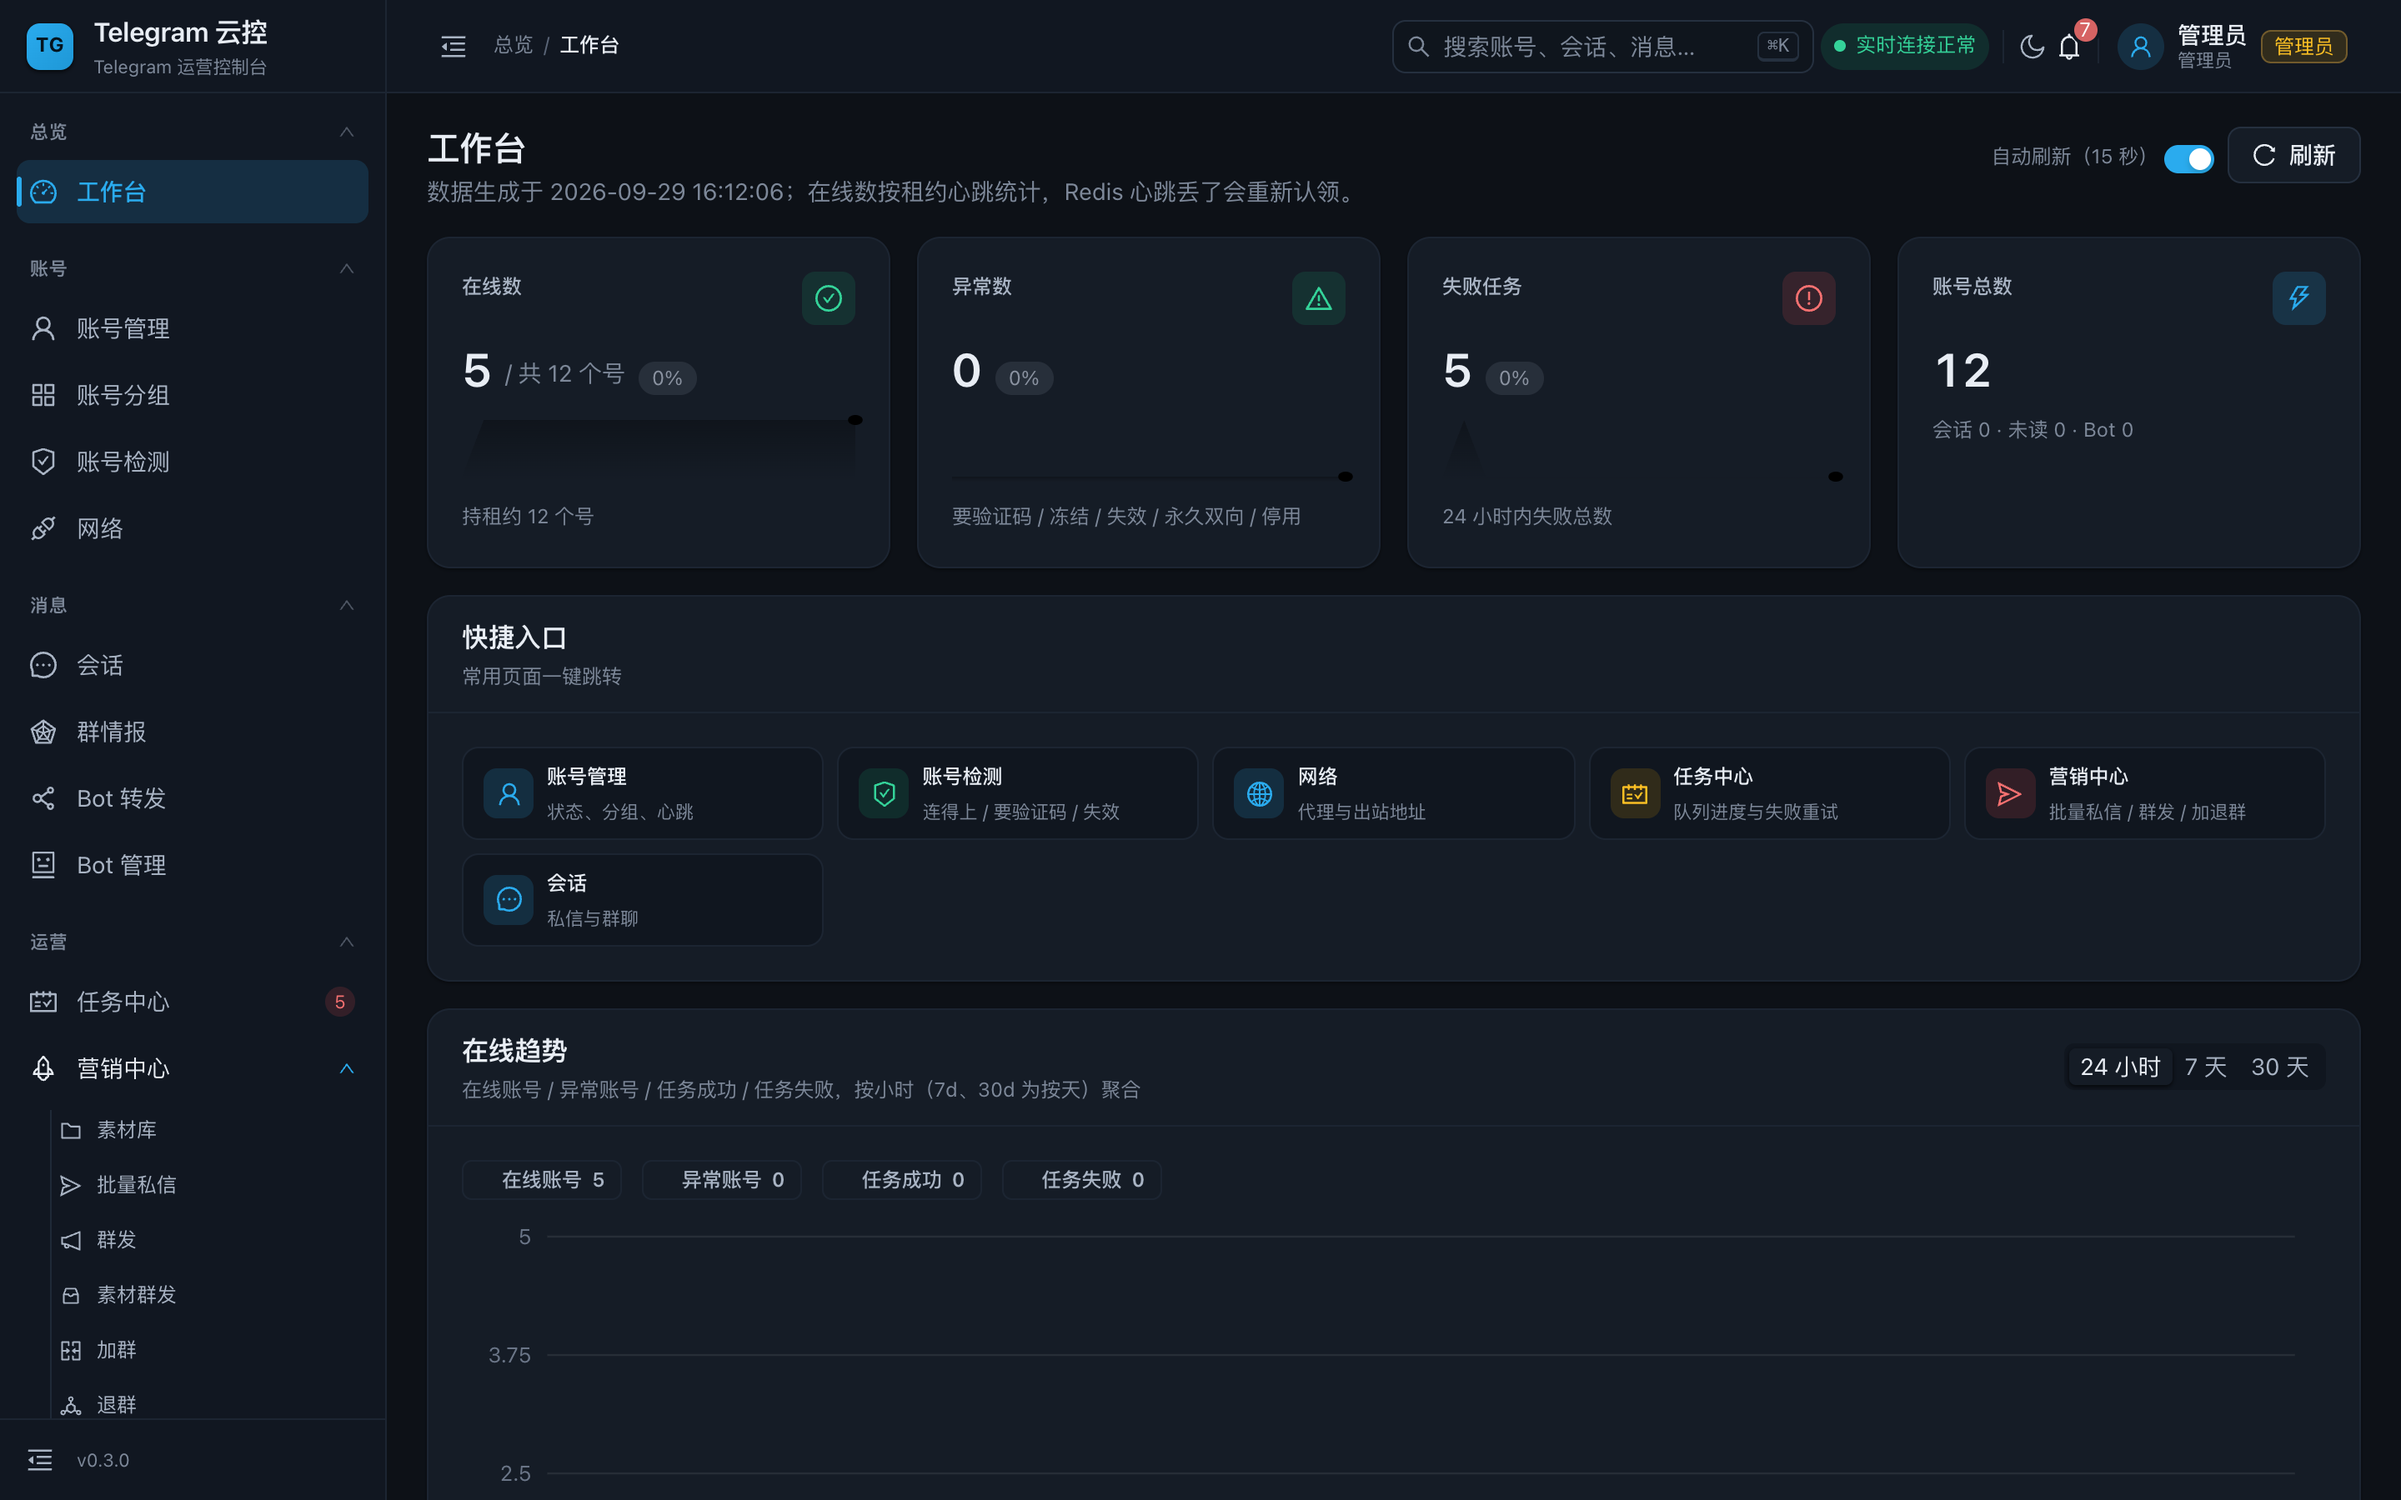
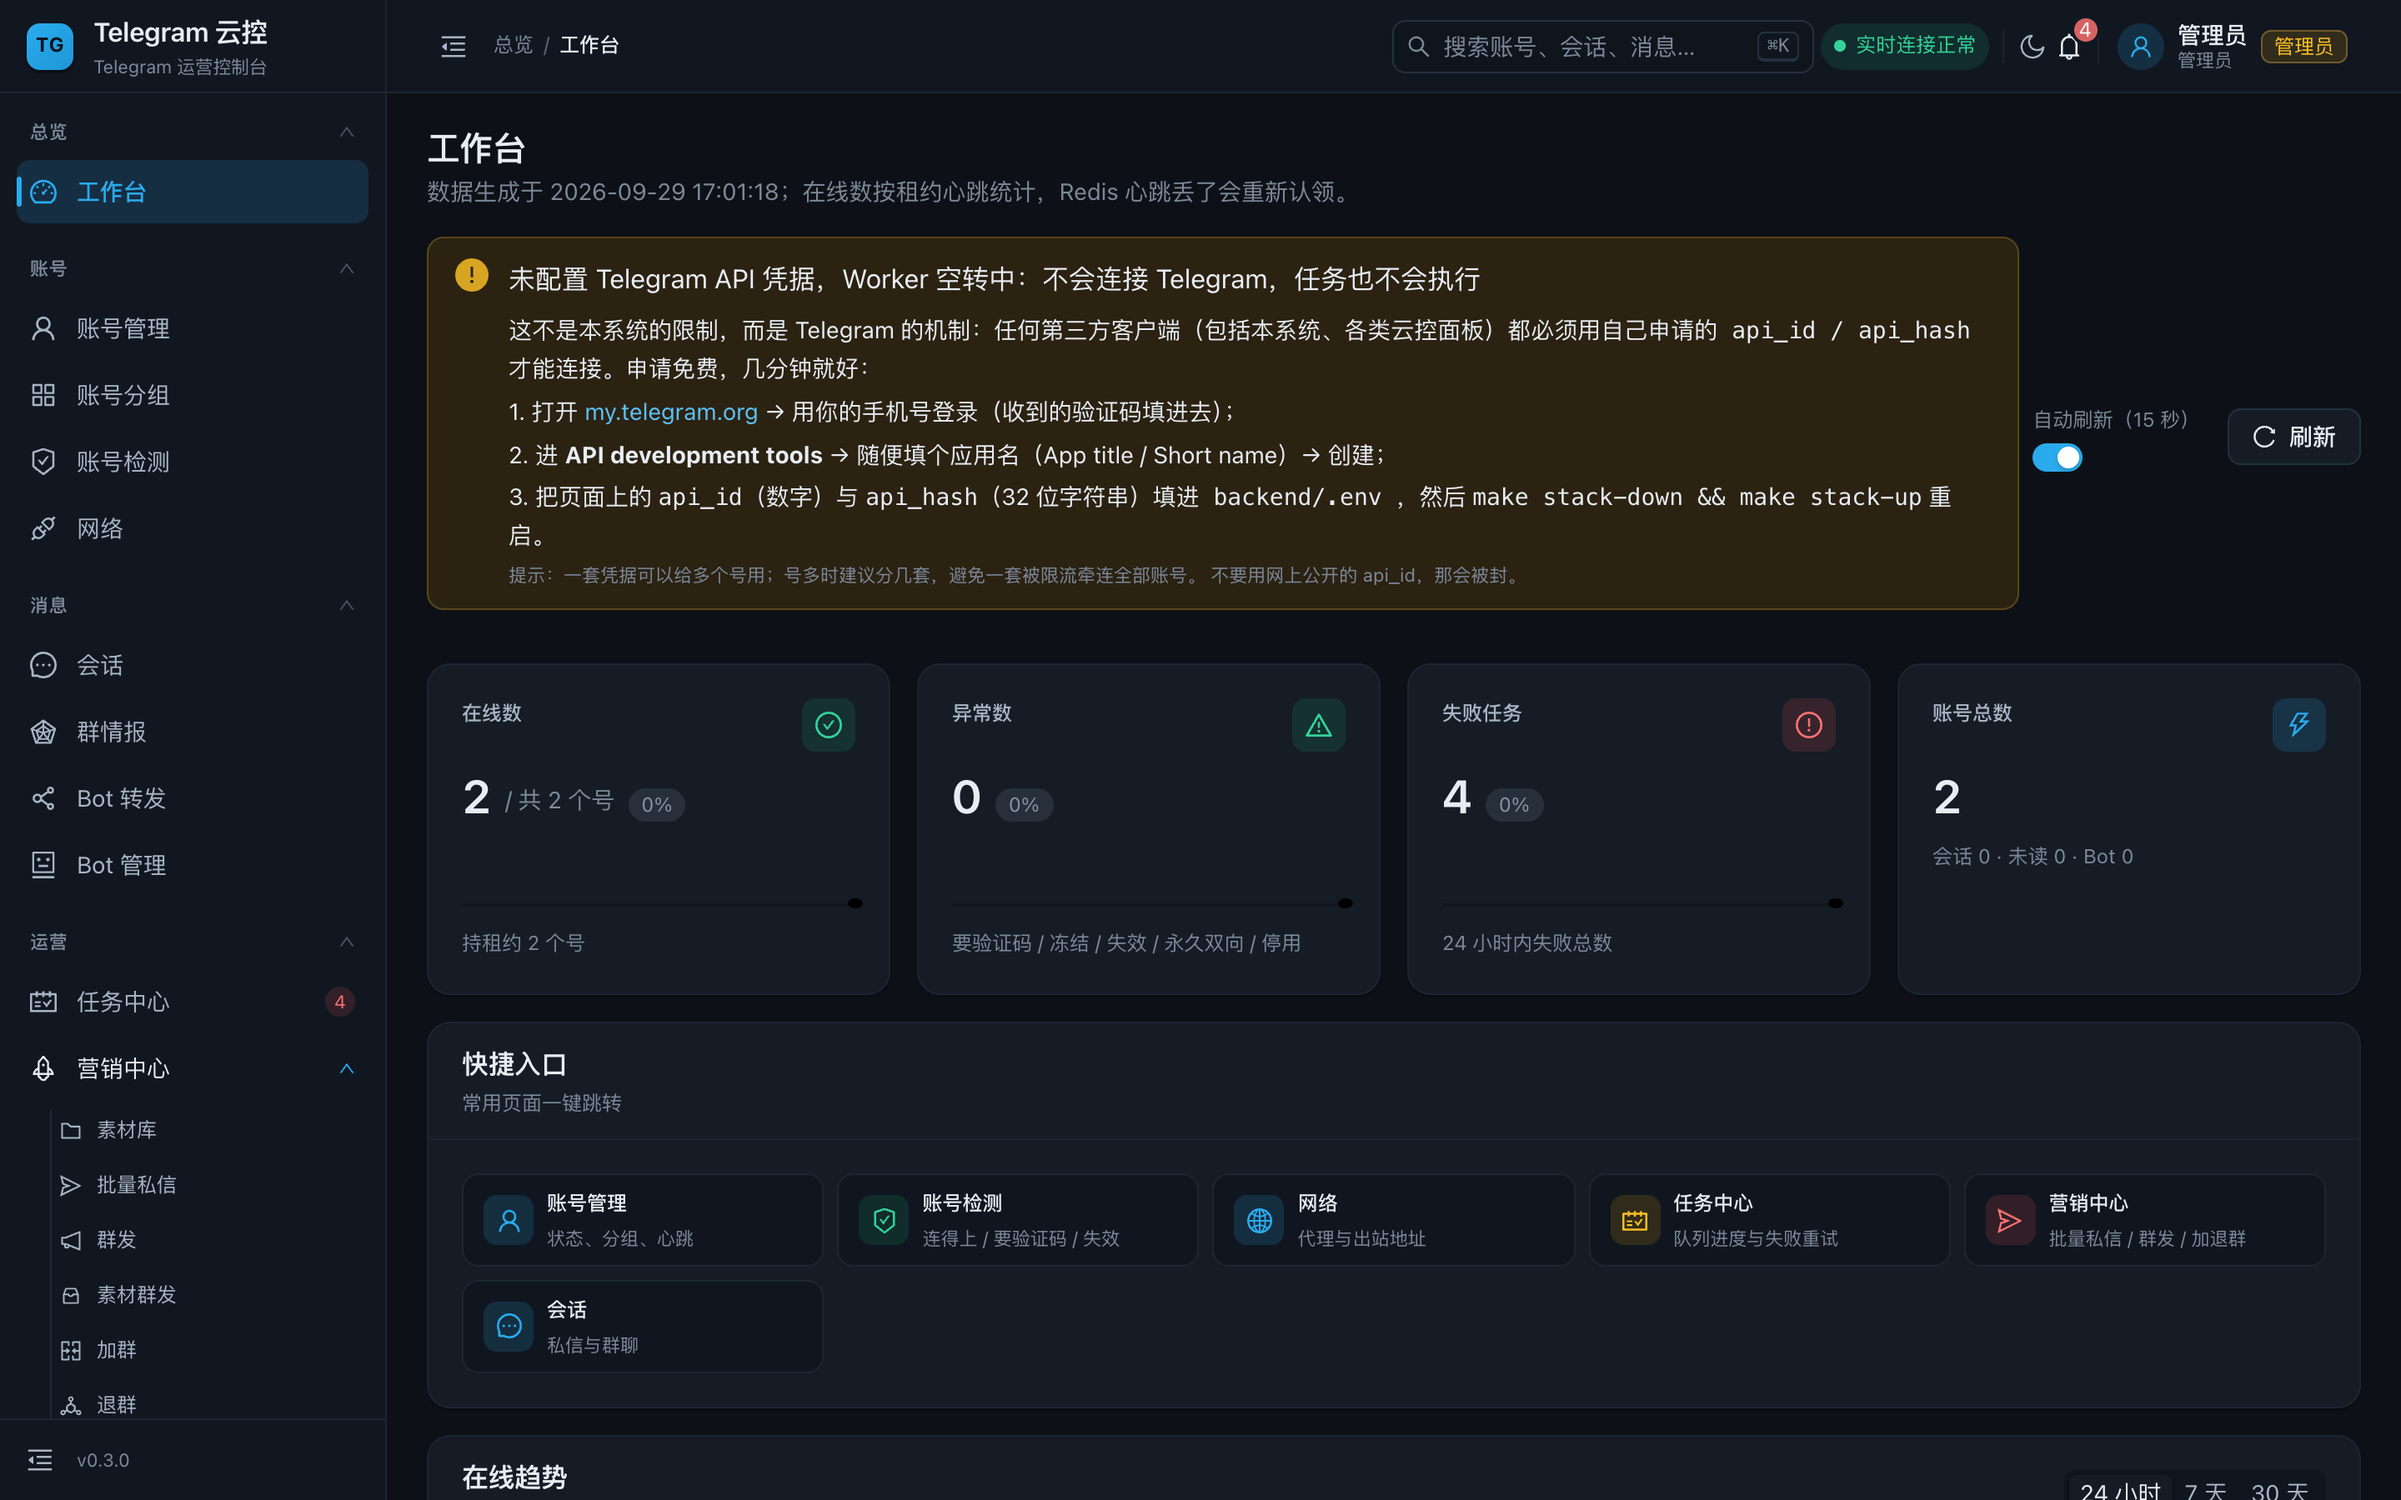
v0.3.28：工作台提示缺少 Telegram API 凭据（含申请指引）
- 后端 /api/dashboard 增加 telegram_ready（false = 未配 TELEGRAM_API_ID/HASH）
- 前端工作台顶部显示醒目警示 + 三步申请指引（my.telegram.org → API development tools →
  填 backend/.env → 重启），并提醒一套凭据可多用、号多建议分套、别用公开 api_id

背景：任何第三方 Telegram 客户端都必须用自己申请的 api_id/api_hash 连接 MTProto，
没配时 Worker 只认领租约与发心跳（账号不上线、任务停在队列），这是预期行为。

验证：接口实测 telegram_ready=false；前端 tsc 与 build 通过；工作台截图重生成

版本：VERSION → 0.3.28

diff --git a/frontend/src/pages/Dashboard.tsx b/frontend/src/pages/Dashboard.tsx
@@ -221,6 +221,36 @@ export default function Dashboard() {
       }
       actions={
         <Space>
+
+      {data && data.telegram_ready === false ? (
+        <Alert
+          type="warning"
+          showIcon
+          message="未配置 Telegram API 凭据，Worker 空转中：不会连接 Telegram，任务也不会执行"
+          description={
+            <span className="tg-stack" style={{ gap: 'var(--tg-space-xs)' }}>
+              <span>
+                这不是本系统的限制，而是 Telegram 的机制：任何第三方客户端（包括本系统、各类云控面板）都必须用自己申请的
+                <code> api_id / api_hash </code>才能连接。申请免费，几分钟就好：
+              </span>
+              <span>
+                1. 打开 <a href="https://my.telegram.org" target="_blank" rel="noreferrer">my.telegram.org</a> →
+                用你的手机号登录（收到的验证码填进去）；
+              </span>
+              <span>2. 进 <b>API development tools</b> → 随便填个应用名（App title / Short name）→ 创建；</span>
+              <span>
+                3. 把页面上的 <code>api_id</code>（数字）与 <code>api_hash</code>（32 位字符串）填进
+                <code> backend/.env </code>，然后 <code>make stack-down && make stack-up</code> 重启。
+              </span>
+              <span className="tg-muted" style={{ fontSize: 'var(--tg-font-size-xs)' }}>
+                提示：一套凭据可以给多个号用；号多时建议分几套，避免一套被限流牵连全部账号。
+                不要用网上公开的 api_id，那会被封。
+              </span>
+            </span>
+          }
+          style={{ marginBottom: 'var(--tg-layout-page-gap)' }}
+        />
+      ) : null}
           <span className="tg-muted" style={{ fontSize: 'var(--tg-font-size-sm)' }}>
             自动刷新（15 秒） <Switch size="small" checked={autoRefresh} onChange={setAutoRefresh} />
           </span>

diff --git a/frontend/src/api/types.ts b/frontend/src/api/types.ts
@@ -592,6 +592,8 @@ export interface DashboardOut {
   tasks_failed: number;
   tasks_overdue: number;
   tasks_stuck: number;
+  /** Worker 是否能连 Telegram；false = 没配 TELEGRAM_API_ID/HASH，任务不会执行 */
+  telegram_ready: boolean;
   workers: WorkerStatus[];
   recent_failures: FailedTaskOut[];
   generated_at?: ISODateTime | null;

diff --git a/backend/app/api/routers/dashboard.py b/backend/app/api/routers/dashboard.py
@@ -9,6 +9,7 @@ from fastapi import APIRouter, Depends
 from sqlalchemy import func, select
 from sqlalchemy.ext.asyncio import AsyncSession
 
+from app.config import settings
 from app.api.deps import get_current_user, get_session, visible_account_ids
 from app.api.routers import account_label, enum_value, task_out, utcnow
 from app.core import events
@@ -54,7 +55,11 @@ async def dashboard(
     """一次性给出页面四块（账号 / 会话 / 任务 / Worker）需要的数字，避免前端连发十几个请求。"""
     ids = await visible_account_ids(session, user)
     now = utcnow()
-    out = DashboardOut(generated_at=now)
+    out = DashboardOut(
+        generated_at=now,
+        # 没配 Telegram 凭据时 Worker 只认领租约不连 Telegram，页面需要明确提示
+        telegram_ready=bool(settings.telegram_api_id and settings.telegram_api_hash),
+    )
 
     # ---------- 账号 ----------
     account_scope = [TgAccount.id.in_(ids)] if ids is not None else []

diff --git a/backend/app/schemas/audit.py b/backend/app/schemas/audit.py
@@ -68,6 +68,8 @@ class DashboardOut(BaseModel):
     tasks_failed: int = 0
     tasks_overdue: int = 0
     tasks_stuck: int = 0
+    # Worker 是否能连 Telegram：没配 TELEGRAM_API_ID/HASH 时为空转状态
+    telegram_ready: bool = True
     workers: List[WorkerStatus] = []
     recent_failures: List[FailedTaskOut] = []
     generated_at: Optional[datetime] = None

diff --git a/README.md b/README.md
@@ -12,7 +12,7 @@
 <p>
   <a href="#许可证"><img src="https://img.shields.io/badge/license-待定-yellow.svg" alt="License"></a>
   <a href="https://github.com/cafinxnull/telegram-cloud-control/releases"><img src="https://img.shields.io/github/v/release/cafinxnull/telegram-cloud-control?label=release&color=2AABEE" alt="Release"></a>
-  <a href="https://github.com/cafinxnull/telegram-cloud-control/releases"><img src="https://img.shields.io/badge/version-0.3.27-2AABEE.svg" alt="Version"></a>
+  <a href="https://github.com/cafinxnull/telegram-cloud-control/releases"><img src="https://img.shields.io/badge/version-0.3.28-2AABEE.svg" alt="Version"></a>
   <a href="https://github.com/cafinxnull/telegram-cloud-control/releases"><img src="https://img.shields.io/badge/changelog-%E6%9B%B4%E6%96%B0%E8%AE%B0%E5%BD%95-blue.svg" alt="Changelog"></a>
   <a href="https://github.com/cafinxnull/telegram-cloud-control/stargazers"><img src="https://img.shields.io/github/stars/cafinxnull/telegram-cloud-control?label=stars&color=f5a623" alt="Stars"></a>
   <a href="https://github.com/cafinxnull/telegram-cloud-control/issues"><img src="https://img.shields.io/github/issues/cafinxnull/telegram-cloud-control?label=issues" alt="Issues"></a>

diff --git a/CHANGELOG.md b/CHANGELOG.md
@@ -7,6 +7,26 @@
 
 ---
 
+## v0.3.28 — 2026-03-30
+
+主题：**界面上直接告诉你为什么任务不执行**（缺 Telegram API 凭据）。
+
+### 新增
+
+- 工作台顶部新增醒目提示：当 `TELEGRAM_API_ID / TELEGRAM_API_HASH` 没配置时，明确说明
+  「Worker 空转中，不会连接 Telegram，任务也不会执行」，并给出三步申请指引
+  （my.telegram.org → 登录 → API development tools → 创建应用 → 把 api_id / api_hash 填进
+  `backend/.env` → 重启），附常见提醒（一套凭据可多用、号多建议分套、别用网上公开的 api_id）。
+- 后端 `/api/dashboard` 增加 `telegram_ready` 字段（`false` 表示缺凭据），前端据此判断显示。
+
+### 说明
+
+这不是本系统的限制：任何第三方 Telegram 客户端（包括所有云控面板）都必须使用自己申请的
+api_id / api_hash 才能连接 MTProto，申请免费。没配时 Worker 只认领租约与发心跳，
+账号不会上线、任务停在队列里——这是预期的空转行为。
+
+---
+
 ## v0.3.27 — 2026-03-30
 
 主题：**tdata 导入的账号标识可读**——不再是一串 `tdata#0`。
